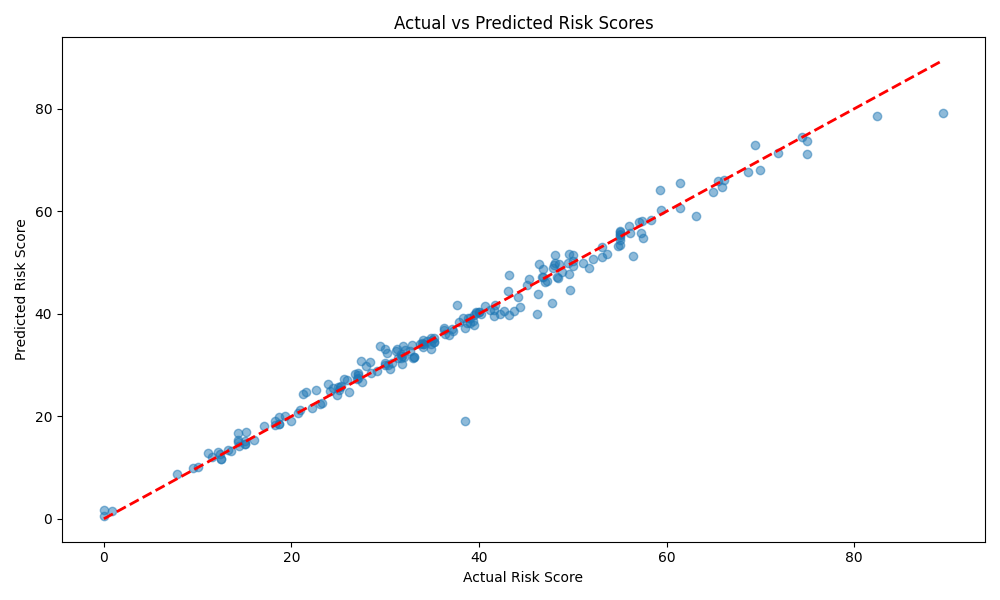
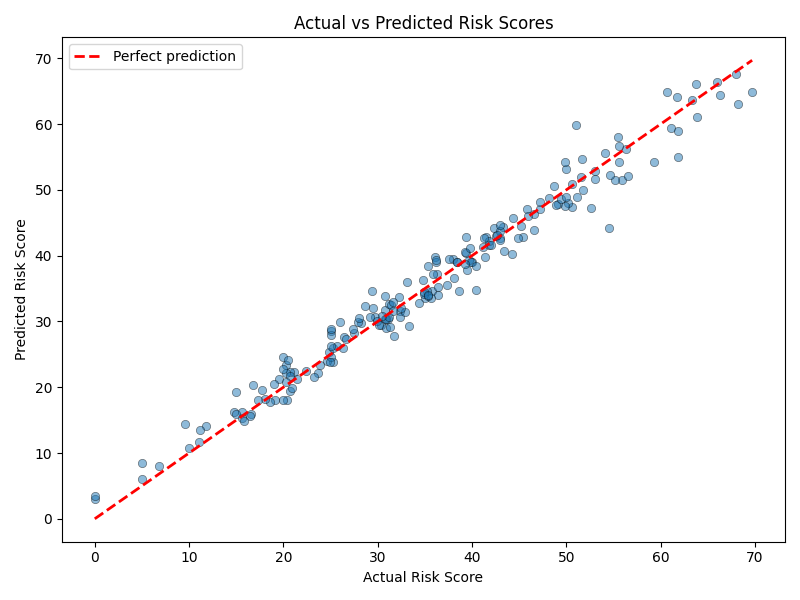
README and ML pipeline updates: plot reasons, actual vs predicted plot, feature names in importance plot
- README: explain why we need actual_vs_predicted and feature_importance plots; update structure and Model Artifacts
- Training script: fix RMSE (root_mean_squared_error); save plots to plots/; add actual vs predicted scatter plot; use real feature names in feature importance plot; return feature_names from training

diff --git a/datapreprocessing&modeltrainning.py b/datapreprocessing&modeltrainning.py
@@ -34,7 +34,8 @@ Features:
 - Artifact Management:
   * Model persistence (diabetes_risk_model.pkl)
   * Scaler persistence (scaler.pkl)
-  * Feature importance plot (feature_importance.png)
+  * Actual vs predicted plot (plots/actual_vs_predicted.png)
+  * Feature importance plot (plots/feature_importance.png)
 
 Dependencies:
 - pandas: Data manipulation
@@ -51,7 +52,8 @@ Input:
 Output:
 - diabetes_risk_model.pkl: Trained XGBoost model
 - scaler.pkl: Fitted StandardScaler
-- feature_importance.png: Feature importance visualization
+- plots/actual_vs_predicted.png: Actual vs predicted risk scores scatter plot
+- plots/feature_importance.png: Feature importance visualization
 - Logging information: Training metrics and error tracking
 
 Usage:
@@ -61,12 +63,13 @@ Authors: Kevin Tan, Haichao Min, Hanfu Hou, Shreyas Karnad, You Wu, Donald Su
 Date: 2024
 """
 
+import os
 import pandas as pd
 import numpy as np
 from sklearn.model_selection import train_test_split, cross_val_score
 from sklearn.preprocessing import StandardScaler
 import xgboost as xgb
-from sklearn.metrics import mean_squared_error, r2_score, mean_absolute_error
+from sklearn.metrics import root_mean_squared_error, r2_score, mean_absolute_error
 import matplotlib.pyplot as plt
 import joblib
 import logging
@@ -186,7 +189,8 @@ def train_and_evaluate_model(X, y):
         
         # Evaluate model
         y_pred = model.predict(X_test)
-        rmse = mean_squared_error(y_test, y_pred, squared=False)
+        # RMSE: use root_mean_squared_error (squared=False was removed in sklearn 1.4+)
+        rmse = root_mean_squared_error(y_test, y_pred)
         mae = mean_absolute_error(y_test, y_pred)
         r2 = r2_score(y_test, y_pred)
         
@@ -199,7 +203,8 @@ def train_and_evaluate_model(X, y):
         logging.info(f"R2 Score: {r2:.2f}")
         logging.info(f"Cross-validation scores: {cv_scores.mean():.2f} (+/- {cv_scores.std() * 2:.2f})")
         
-        return model, scaler
+        # Return model, scaler, test labels/predictions, and feature names for plotting
+        return model, scaler, y_test, y_pred, feature_names
     except Exception as e:
         logging.error(f"Error in model training: {e}")
         raise
@@ -219,17 +224,35 @@ def main():
         X, y = preprocess_data(data)
         
         # Train and evaluate model
-        model, scaler = train_and_evaluate_model(X, y)
+        model, scaler, y_test, y_pred, feature_names = train_and_evaluate_model(X, y)
         
         # Save model and scaler
         save_artifacts(model, scaler)
         
-        # Plot feature importance
+        # Ensure plots folder exists for all visualizations
+        os.makedirs('plots', exist_ok=True)
+        
+        # Actual vs predicted risk scores scatter plot (model performance visualization)
+        plt.figure(figsize=(8, 6))
+        plt.scatter(y_test, y_pred, alpha=0.5, edgecolors='k', linewidth=0.5)
+        min_val = min(y_test.min(), y_pred.min())
+        max_val = max(y_test.max(), y_pred.max())
+        plt.plot([min_val, max_val], [min_val, max_val], 'r--', lw=2, label='Perfect prediction')
+        plt.xlabel('Actual Risk Score')
+        plt.ylabel('Predicted Risk Score')
+        plt.title('Actual vs Predicted Risk Scores')
+        plt.legend()
+        plt.tight_layout()
+        plt.savefig('plots/actual_vs_predicted.png')
+        plt.close()
+        
+        # Feature importance plot with readable names (f0, f1, ... -> actual column names)
+        model.get_booster().feature_names = feature_names
         plt.figure(figsize=(10, 6))
-        xgb.plot_importance(model, max_num_features=10)
+        xgb.plot_importance(model.get_booster(), max_num_features=10)
         plt.title('Feature Importance')
         plt.tight_layout()
-        plt.savefig('feature_importance.png')
+        plt.savefig('plots/feature_importance.png')
         plt.close()
         
     except Exception as e:

diff --git a/README.md b/README.md
@@ -108,8 +108,8 @@ SI542-Project-Diabetes-Management-App/
 ├── requirements.txt                    # Python package dependencies
 ├── .gitignore                          # Git ignore rules
 ├── plots/                              # Model evaluation visualizations
-│   ├── feature_importance.png         # Feature importance analysis
-│   └── actual_vs_predicted.png        # Model performance visualization
+│   ├── actual_vs_predicted.png        # Validates prediction accuracy (actual vs predicted)
+│   └── feature_importance.png         # Interprets which features drive risk scores
 └── README.md                           # This file - project documentation
 ```
 
@@ -127,7 +127,9 @@ SI542-Project-Diabetes-Management-App/
 
 - **`requirements.txt`**: Lists all Python package dependencies with version specifications. Use `pip install -r requirements.txt` to install all dependencies.
 
-- **`plots/`**: Directory containing visualization outputs from model training, including feature importance charts and prediction accuracy plots.
+- **`plots/`**: Directory containing visualization outputs from model training. We need these two plots for model evaluation and interpretability:
+  - **`actual_vs_predicted.png`**: Compares actual risk scores (test set) to the model’s predictions. Points near the diagonal line mean accurate predictions; spread around the line shows error. This plot helps us validate that the model performs well and communicate prediction reliability to users and stakeholders.
+  - **`feature_importance.png`**: Shows which input features (e.g., blood glucose, BMI, sleep) the model uses most when computing risk scores. It supports model interpretability, checks that clinically relevant factors are weighted sensibly, and can guide which metrics to prioritize in the app or in data collection.
 
 ---
 
@@ -275,7 +277,8 @@ The application window should open automatically. If you encounter any errors, s
 **Model Artifacts**:
 - `diabetes_risk_model.pkl`: Trained model
 - `scaler.pkl`: Feature scaler
-- `feature_importance.png`: Feature importance visualization
+- `plots/actual_vs_predicted.png`: Actual vs predicted risk scores (validates prediction accuracy)
+- `plots/feature_importance.png`: Feature importance (interprets which inputs drive risk scores)
 
 ---
 
